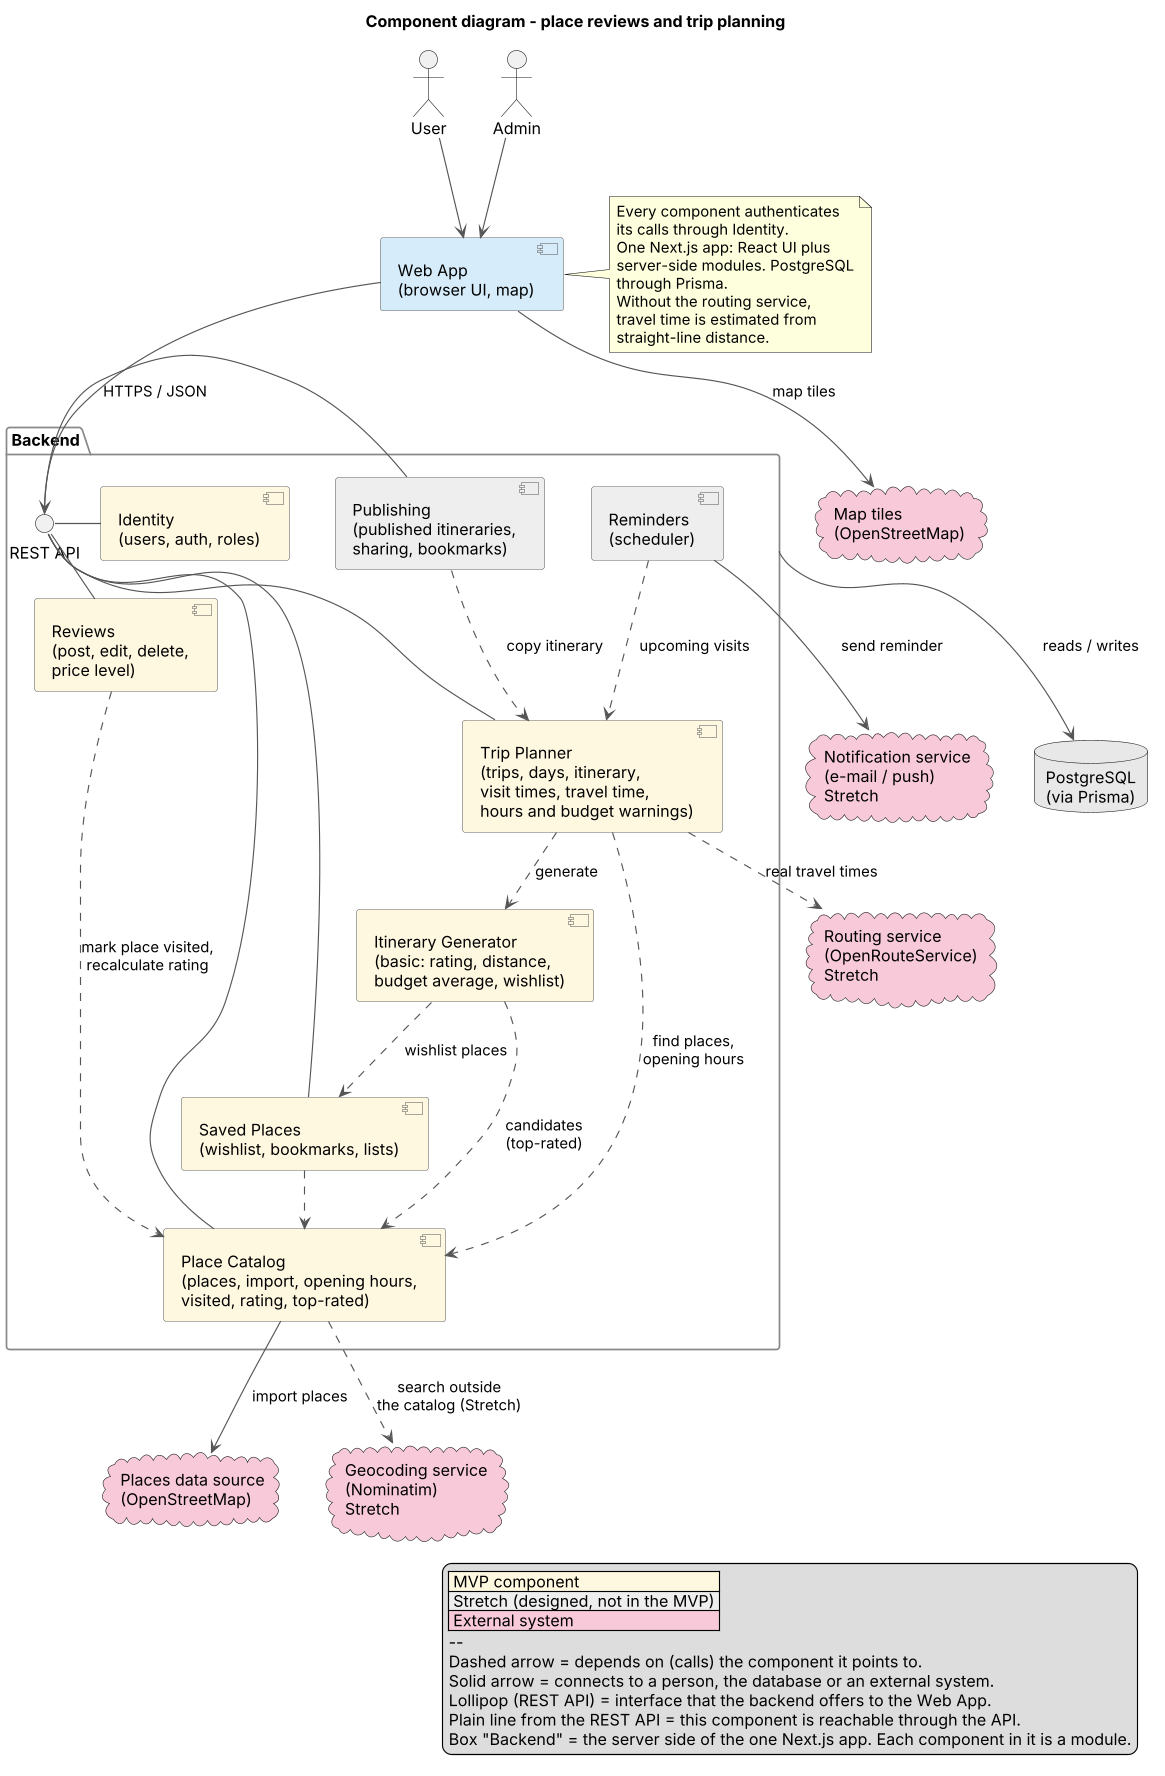
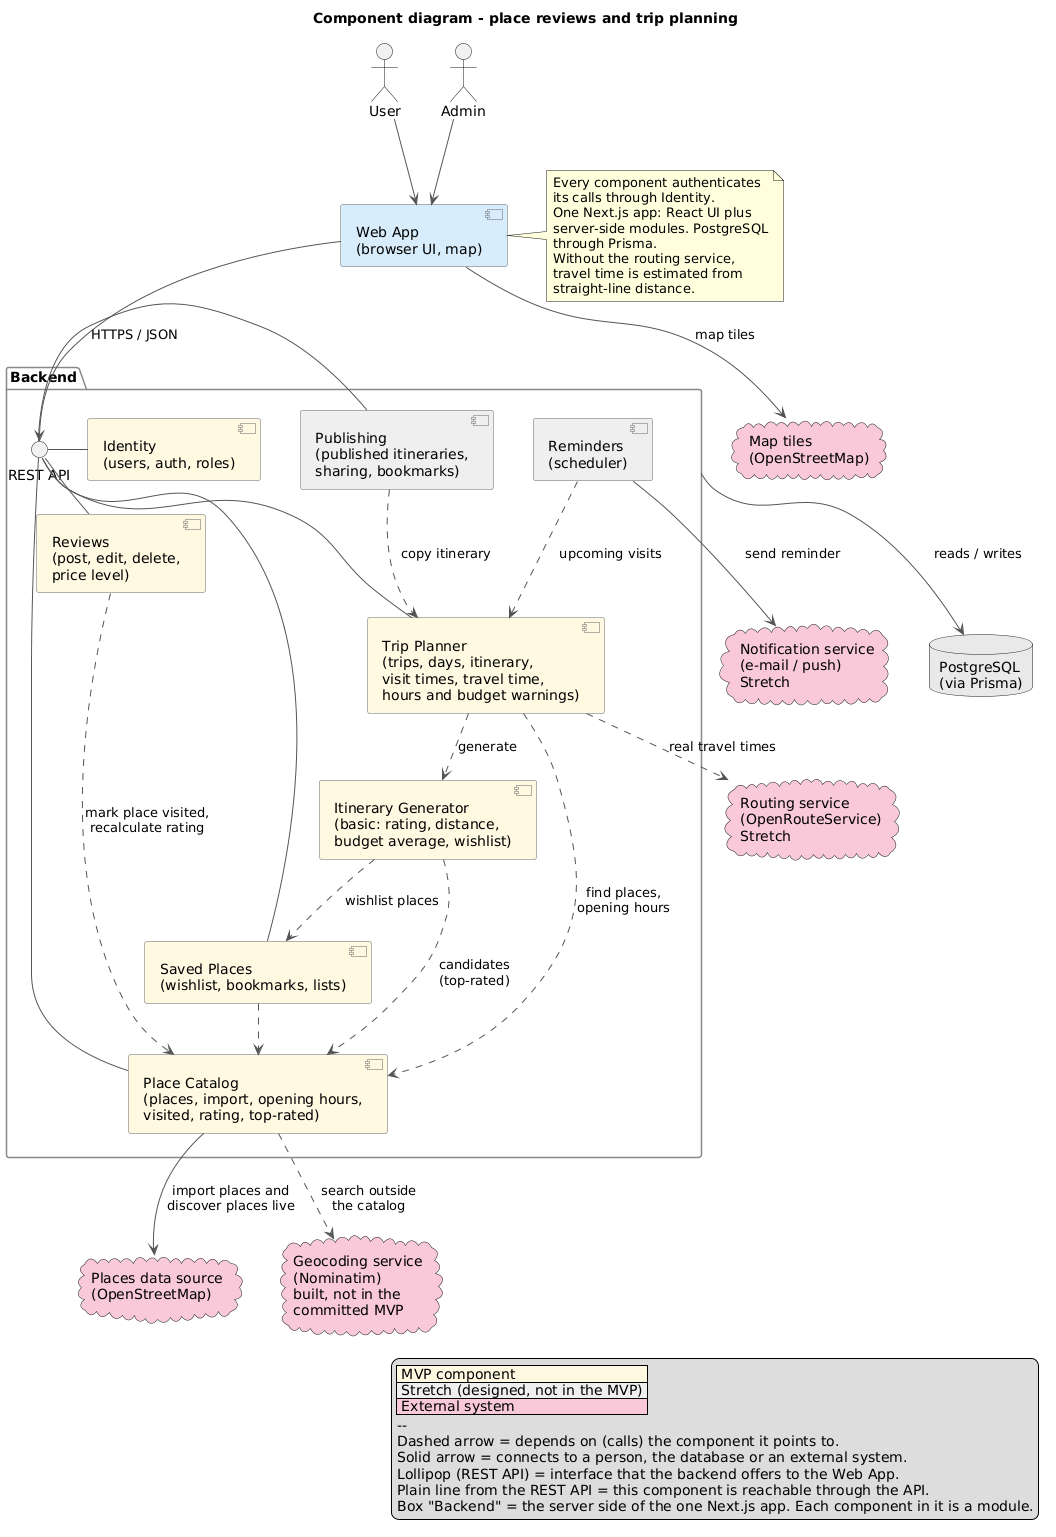
Update the component diagram for live discovery and the built geocoding search
The arrow to the places data source now says import and live discovery, and the Nominatim box says it is built but outside the committed MVP (ADR-002 and ADR-004). The matching lines in design.md are updated and the PNG is regenerated from the .puml.

diff --git a/docs/design.md b/docs/design.md
@@ -78,7 +78,7 @@ yellow (small) = actor, yellow (tall) = aggregate, pink = open issue, grey = not
 - **Notification service** delivers visit reminders (Stretch). The trigger is a timer.
 - **Routing service** (OpenRouteService) provides real travel times (Stretch).
 - **Moderator** (a user with the ADMIN role) approves or rejects place suggestions (Dream).
-- **Geocoding service** (Nominatim) finds places outside the catalog (Stretch, see ADR-004).
+- **Geocoding service** (Nominatim) finds places outside the catalog (built, outside the committed MVP, see ADR-004).
 
 ### Key decisions
 
@@ -216,7 +216,7 @@ designed, not in the MVP.
 | -------------------- | ---------------------------------------------------------------------------------------------------------------------------------------------------------------------------- | ----------------------------------------------------------------------- |
 | Web App              | Browser UI for users and admins, including the map                                                                                                                           | Backend REST API, Map tiles (external)                                  |
 | Identity             | Users, authentication, roles                                                                                                                                                 | Database                                                                |
-| Place Catalog        | The whole Place aggregate: places, city search, import, opening hours, visited marker, rating recalculation and the top-rated list (suggestions, moderation and search outside the catalog are post-MVP) | Database, Places data source (external), Geocoding service (external, Stretch) |
+| Place Catalog        | The whole Place aggregate: places, city search, import, live discovery of places, opening hours, visited marker, rating recalculation and the top-rated list (search outside the catalog is built but outside the committed MVP; suggestions and moderation are post-MVP) | Database, Places data source (external), Geocoding service (external) |
 | Reviews              | Post, edit and delete reviews, including the price level. Triggers _mark place visited_ and _recalculate rating_ in Place Catalog                                            | Place Catalog                                                           |
 | Saved Places         | Wishlist, bookmarks and custom lists                                                                                                                                         | Place Catalog                                                           |
 | Trip Planner         | Trips, days, itineraries, visit times, travel-time estimates, opening-hours and budget warnings                                                | Place Catalog, Itinerary Generator, Routing service (external, Stretch) |
@@ -226,10 +226,10 @@ designed, not in the MVP.
 
 External systems:
 
-- **Places data source** (OpenStreetMap), used by Place Catalog to import places.
+- **Places data source** (OpenStreetMap), used by Place Catalog to import places and to discover places live on the map (see ADR-002).
 - **Map tiles** (OpenStreetMap), used by the Web App to draw the map.
 - **Routing service** (OpenRouteService, Stretch), used by Trip Planner for real travel times.
-- **Geocoding service** (Nominatim, Stretch), used by Place Catalog to search outside the catalog (see ADR-004).
+- **Geocoding service** (Nominatim, built but outside the committed MVP), used by Place Catalog to search outside the catalog (see ADR-004).
 - **Notification service** (e-mail or push, Stretch), used by Reminders.
 
 Each component matches aggregates from the EventStorming (Identity = User, Place
